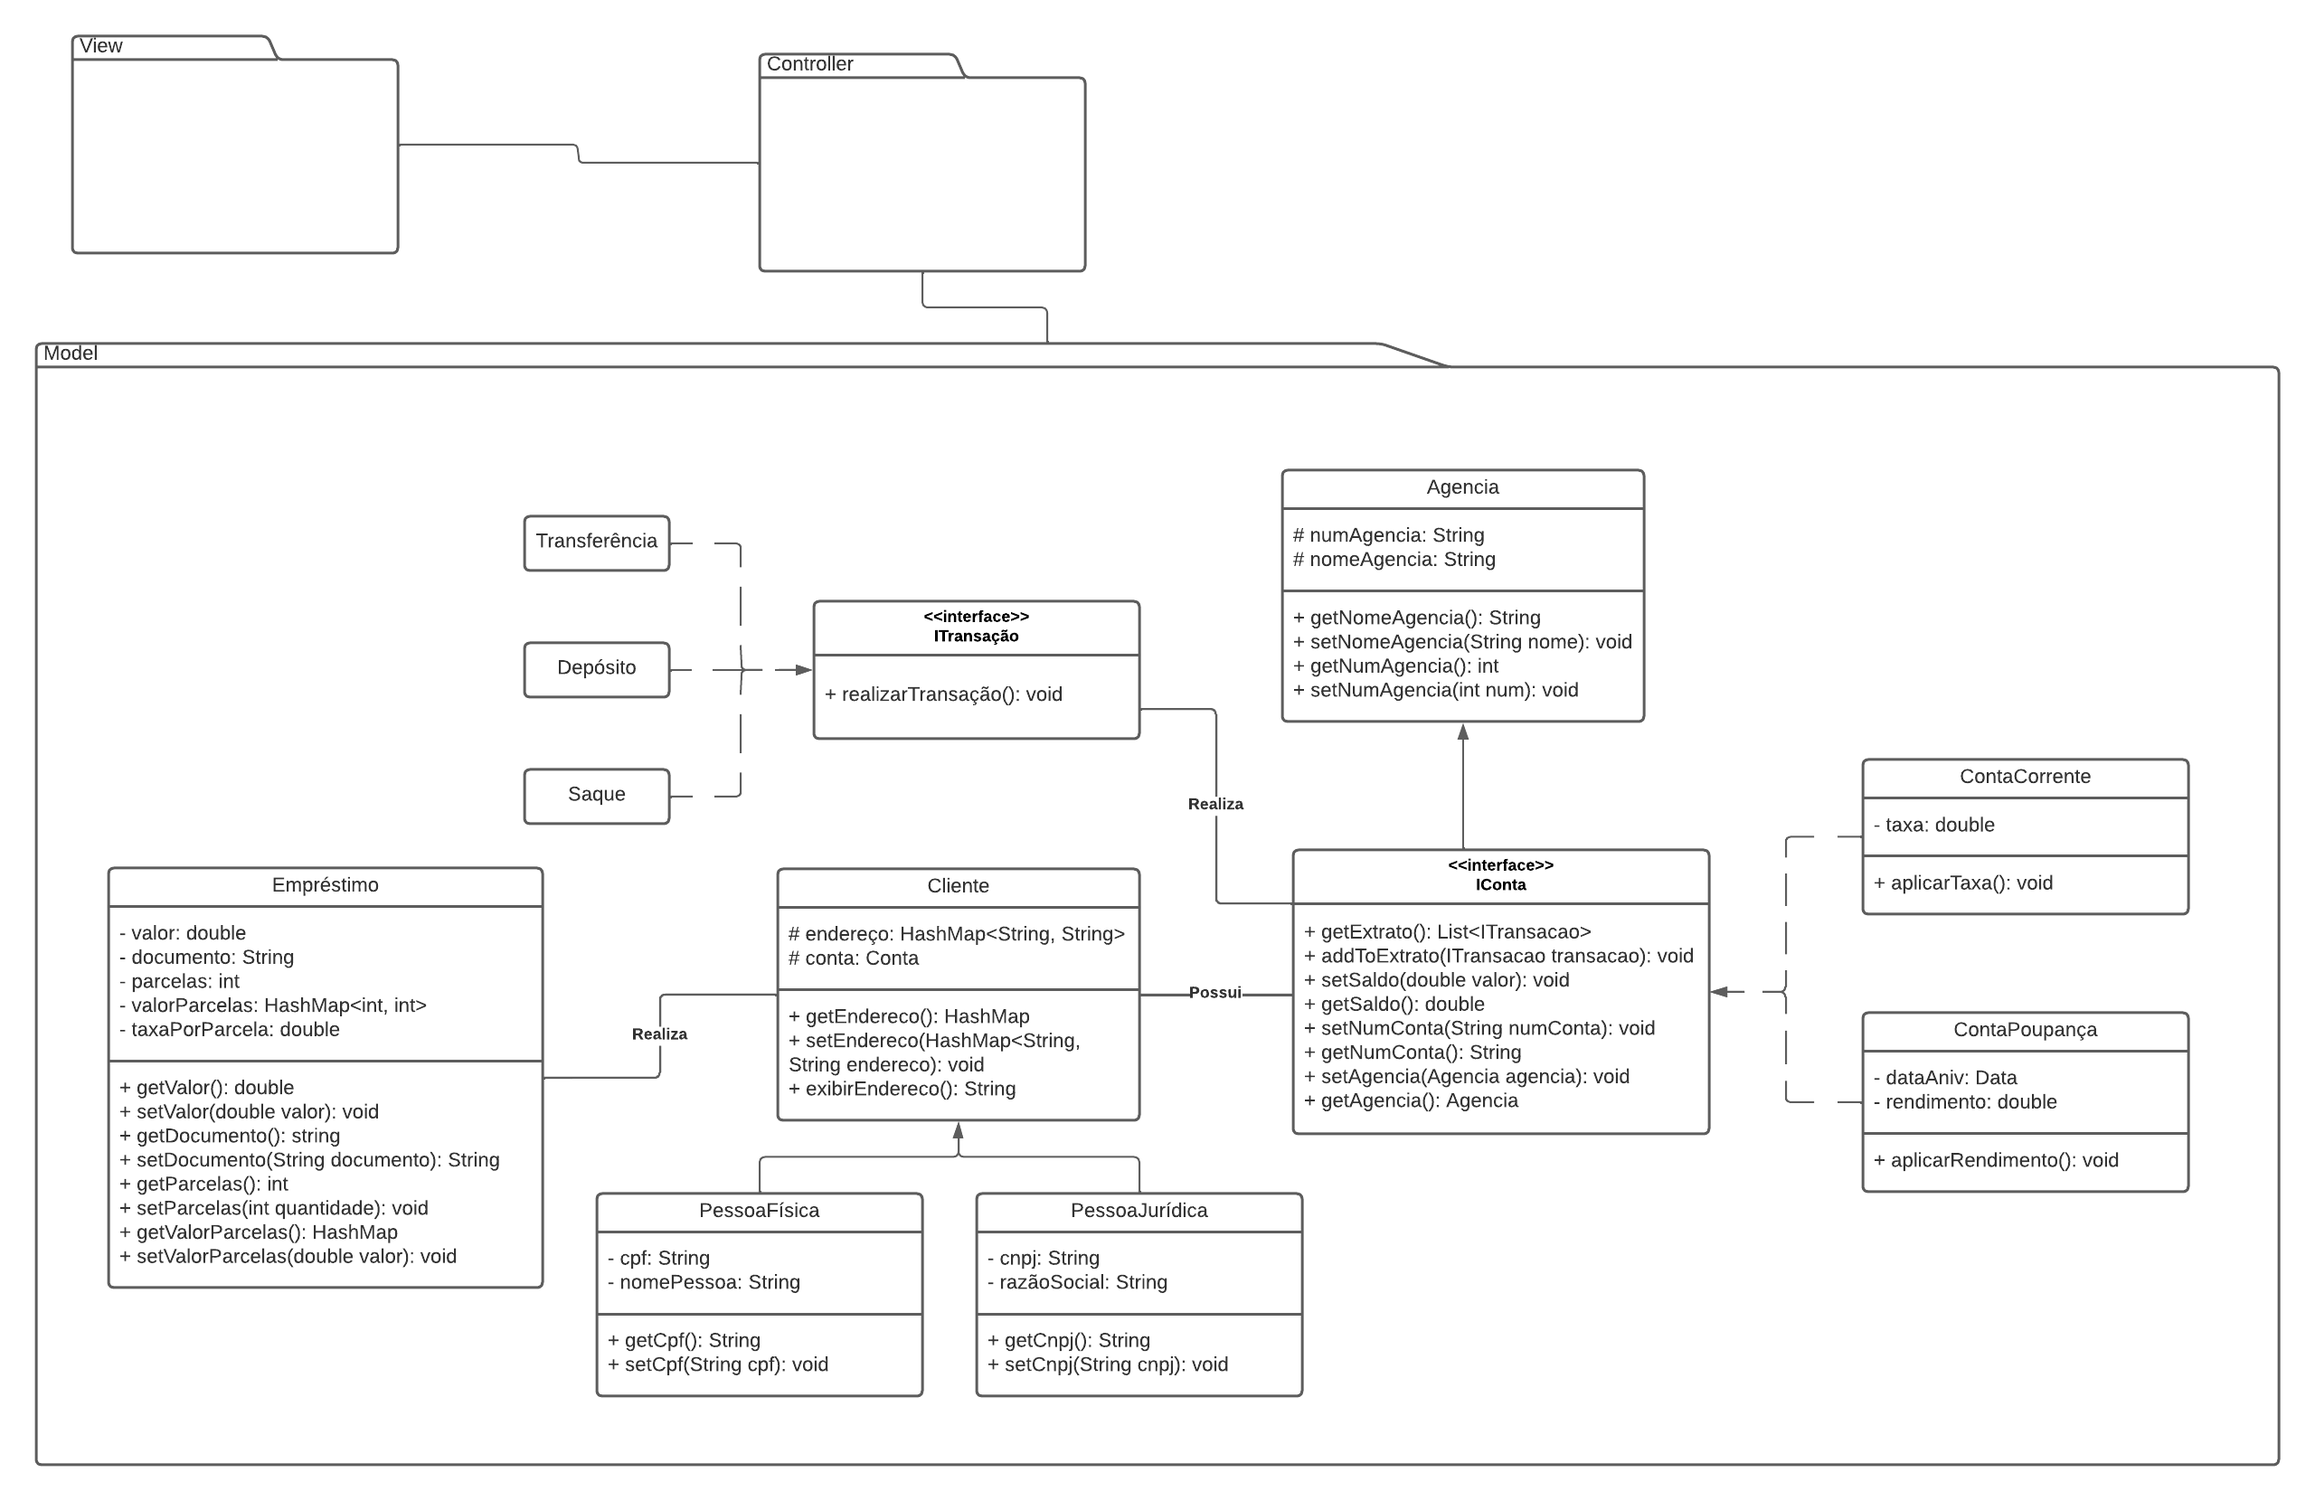
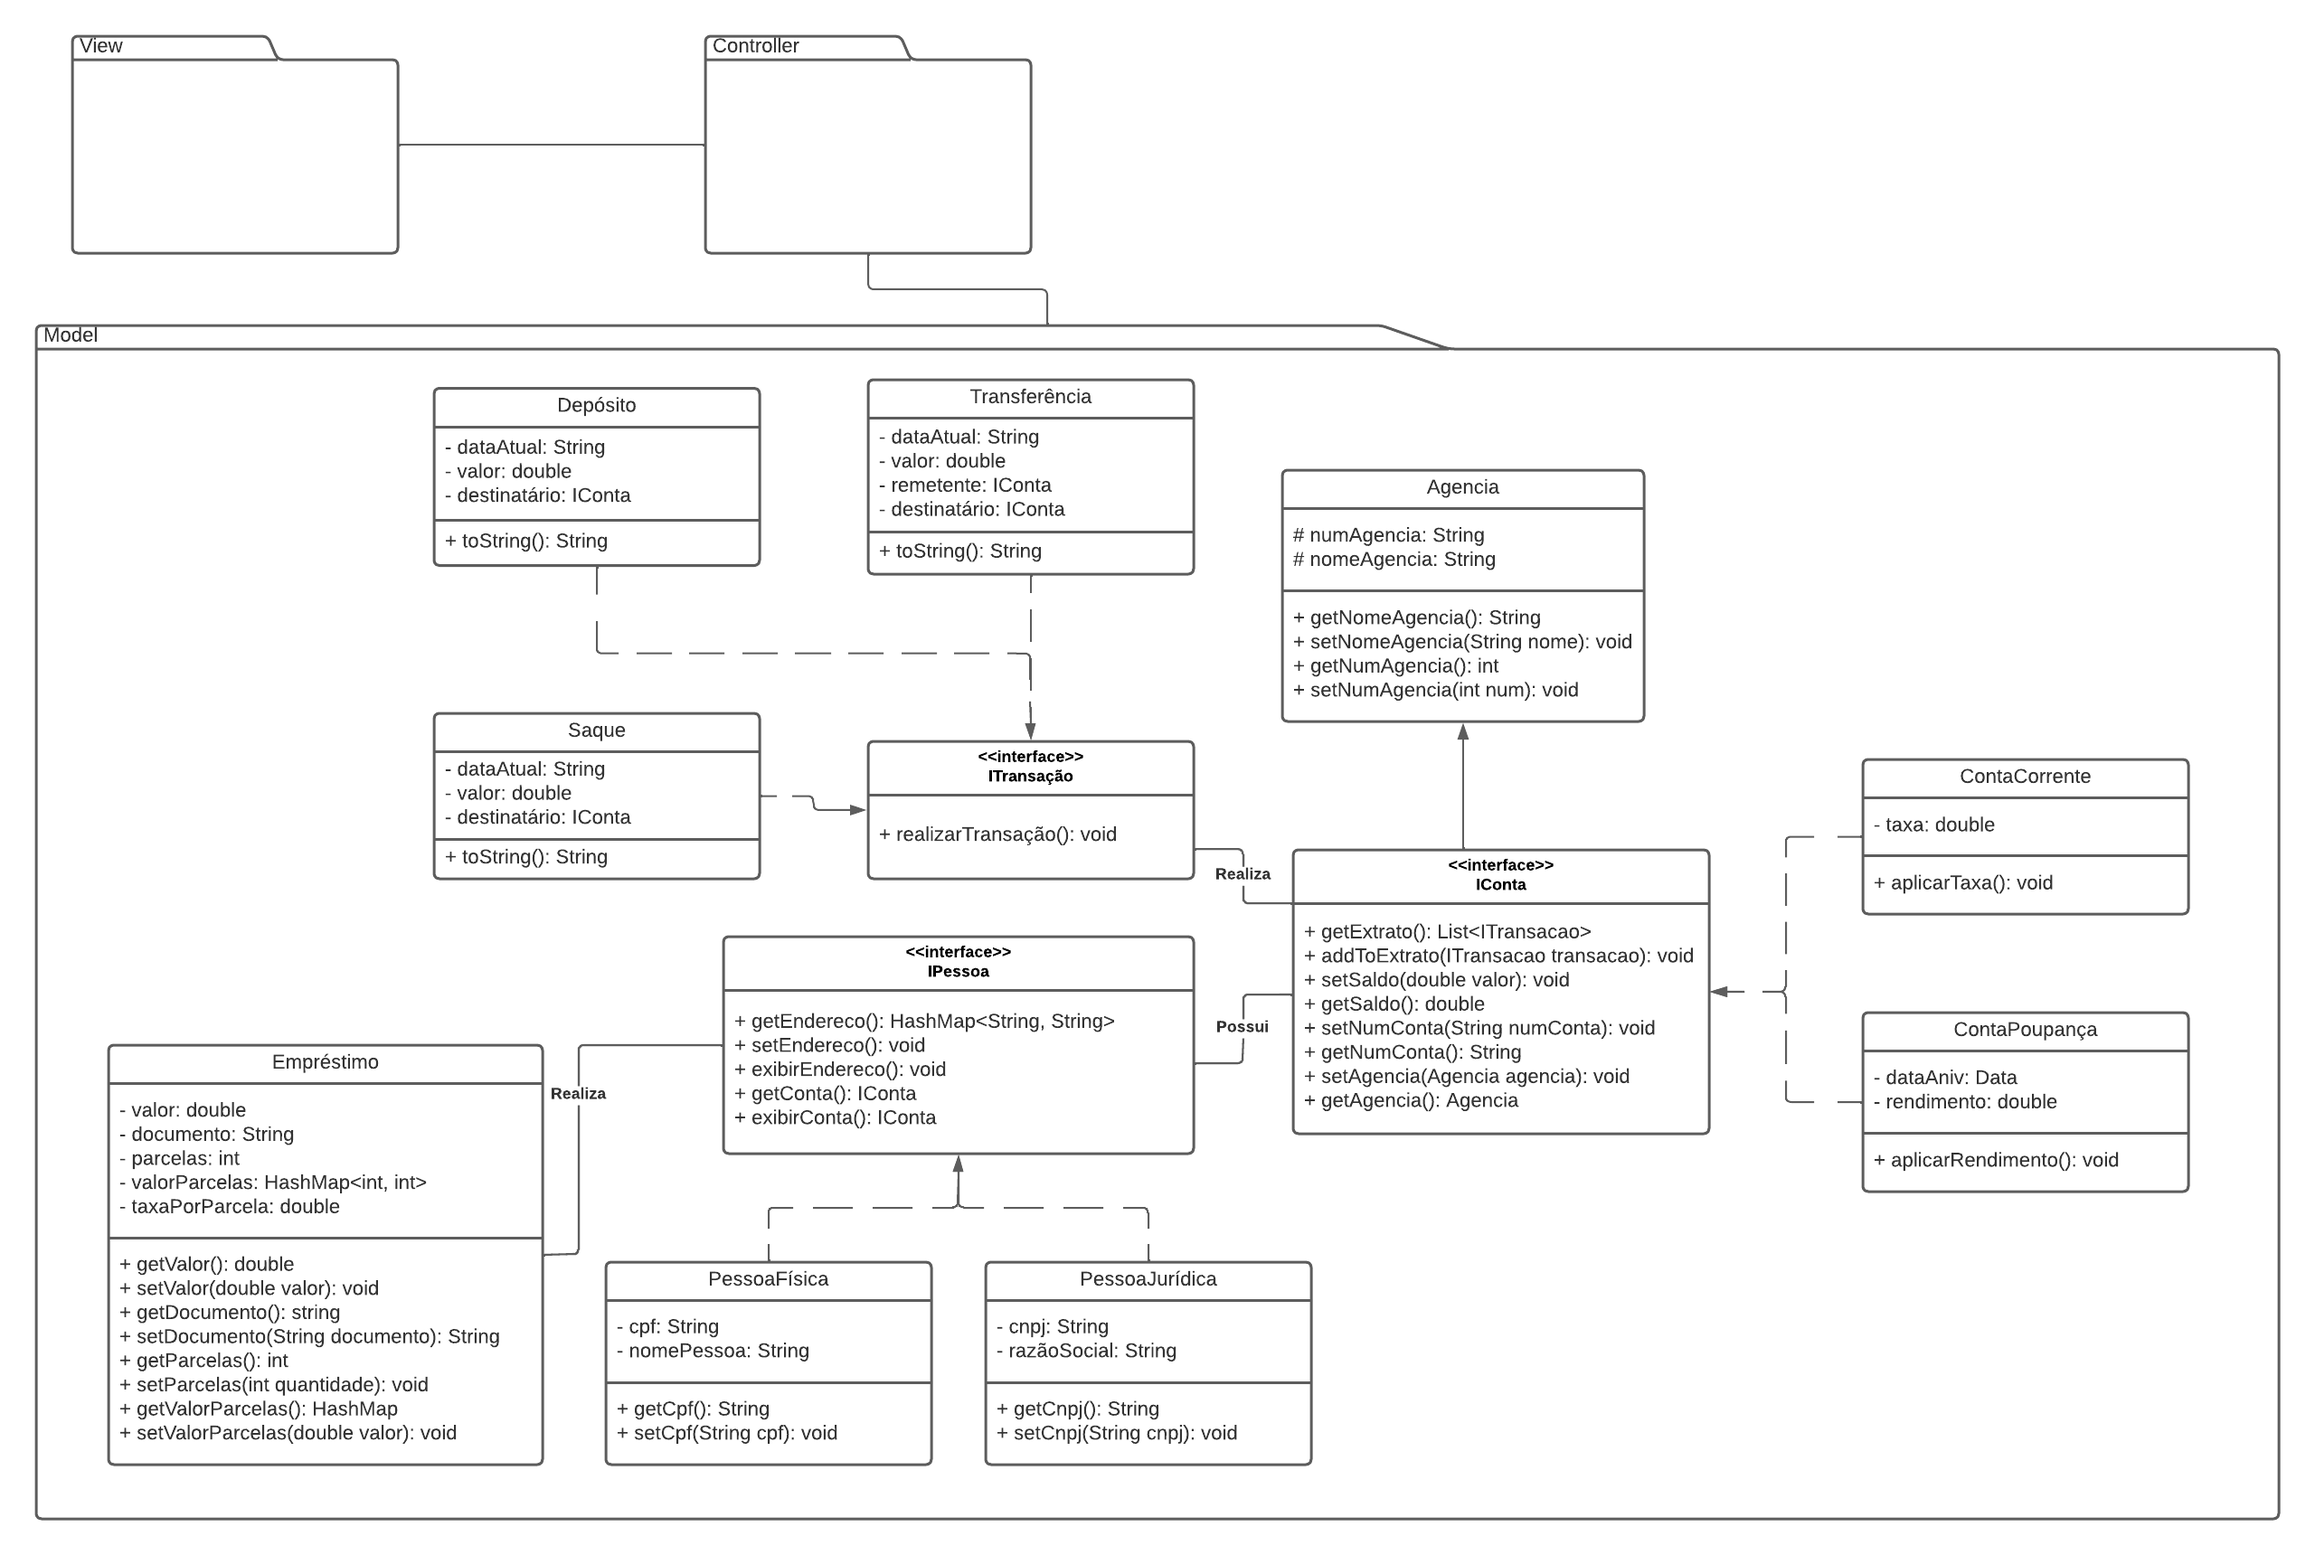
Correção do diagrama e adição dos códigos

diff --git a/Engenharia I/README.md b/Engenharia I/README.md
@@ -2,49 +2,49 @@
 >
 > *Titus Winters, Software Engineering at Google*
 
-São diferenças cruciais que diferenciam o papel essencial de cada papel. Embora o desenvolvedor seja focado mais na parte do desenvolvimento e toda a criação do projeto em si, o engenheiro de software, além de fazer o mesmo que o desenvolvedor, acaba tendo mais tarefas além do próprio processo de criação, tais como manutenção, melhorias, e qualquer outra decisão que esteja além do código ou que envolva o projeto. Ou seja, a principal diferença entre o desenvolvedor e o engenheiro de software, é que o desenvolvedor pensa no tempo atual do projeto, e o engenheiro de software pensa além disso tudo, no tempo, na escala e nos trade-offs.
+São diferenças cruciais que diferenciam o papel essencial de cada papel. Embora o desenvolvedor seja focado mais na parte do desenvolvimento e toda a criação do projeto em si, o engenheiro de ‘software’, além de fazer o mesmo que o desenvolvedor, acaba tendo mais tarefas além do próprio processo de criação, tais como manutenção, melhorias, e qualquer outra decisão que esteja além do código e projeto. Ou seja, a principal diferença entre o desenvolvedor e o engenheiro de ‘software’, é que o desenvolvedor pensa no tempo atual do projeto, e o engenheiro de ‘software’ pensa, além disso, no tempo, na escala e nos trade-offs.
 
 > O que é um trade-off no projeto da API do segundo semestre?
 
-Pelo fato do projeto ser um desktop, acaba perdendo a vantagem de ser multiplataforma, ou seja, além de desktop, também ser web e mobile. Mas em troca disso, a aplicação desktop permite maior flexibilidade de uso e gerenciamento do que um web/mobile forneceria por suas limitações, fazedo com que o usuário tenha mais opções e flexibilidade de uso em troca de portabilidade.
+Pelo fato do projeto ser um ‘desktop’, acaba perdendo a vantagem de ser multiplataforma, ou seja, além de ‘desktop’, também ser ‘web’ e mobile. Mas em troca disso, a aplicação ‘desktop’ permite maior flexibilidade de uso e gerenciamento do que uma ‘web’/mobile forneceria por suas limitações, fazendo com que o usuário tenha mais opções e flexibilidade de uso em troca de portabilidade.
 
 <br>
 
 <h1 align="center">Projeto em atividade</h1>
 <p align="justify">
-    Desenvolvimento de um estudo baseado na criação de um projeto. O desenvolvimento trabalha no aspecto geral de tudo que é necessário para a boa qualidade de um projeto. Requisitos funcionais e não funcionais, caso de uso, diagrama de classes, etc; são alguns dos conceitos utilizados.
+    Desenvolvimento de um estudo baseado na criação de um projeto. O desenvolvimento trabalha no aspecto geral de tudo necessário para a boa qualidade de um projeto. Requisitos funcionais e não funcionais, caso de uso, diagrama de classes, etc.; são alguns dos conceitos utilizados.
 </p>
 
-> O tema escolhido foi: **Sistema Bancário**.
+> O tema escolhido foi: **sistema bancário**.
 
 <br>
 
 ## Atividade de Requisitos
 
 ### :sparkles: Requisitos Funcionais
-Os requisitos funcionais representam tudo aquilo que o sistema faz, em termos de tarefas e ações. 
+Os requisitos funcionais representam tudo aquilo que o sistema faz, em tarefas e ações. 
 <p align="center">
 
 ![Caso de uso [Sistema Bancário]](/readme/Caso%20de%20uso%20%5BSistema%20Banc%C3%A1rio%5D%20-%20P%C3%A1gina%201.jpeg)
 </p>
 
 ### :dart: Requisitos não funcionais
-Os requisitos não funcionais representam a forma como as funcionalidades serão entregues ao usuário. Tratam de quesões como desempenho[^1], usabilidade[^2], portabilidade[^3], etc.
+Os requisitos não funcionais representam como as funcionalidades serão entregues ao usuário. Tratam de questões como desempenho, usabilidade, portabilidade, etc.
 
-| Requisito não-funcional | Descrição |
-|:-----------------------:|:---------:|
-| Usabilidade | - |
-| Portabilidade | - |
-| Escalabilidade[^4] | - |
-| Separação de Interesses: modelo MVC[^5] | - |
-| Desempenho | - |
+| Requisito não-funcional             |
+|:------------------------------------|
+| Usabilidade                         |
+| Portabilidade                       |
+| Escalabilidade                      |
+| Separação de Interesses: modelo MVC |
+| Desempenho                          |
 
 ## Arquitetura do Sistema
 
 ### Diagrama de classes UML
 <p align="center">
 
-![Diagrama de classes [Sistema Bancário]](/readme/Diagrama%20de%20classes%20UML%20%5BSistema%20Banc%C3%A1rio%5D%20-%20P%C3%A1gina%201.png)
+![Diagrama de classes [Sistema Bancário]](/readme/Diagrama%20de%20classes%20UML%20%5BSistema%20Banc%C3%A1rio%5D.png)
 </p>
 
 ## Desenvolvimento do código
@@ -214,6 +214,32 @@ class ContaCorrente implements IConta {
 }
 ```
 
+`classe Agencia`
+```java
+class Agencia {
+    protected String numAgencia;
+    protected String nomeAgencia;
+
+    public Agencia (String numAgencia, String nomeAgencia) {
+        this.numAgencia = numAgencia;
+        this.nomeAgencia = nomeAgencia;
+    }
+
+    public String getNumAgencia() {
+        return numAgencia;
+    }
+    public String getNomeAgencia() {
+        return nomeAgencia;
+    }
+    public void setNumAgencia(String numAgencia) {
+        this.numAgencia = numAgencia;
+    }
+    public void setNomeAgencia(String nomeAgencia) {
+        this.nomeAgencia = nomeAgencia;
+    }
+}
+```
+
 `interface ITransacao`
 ```java
 interface ITransacao {
@@ -294,8 +320,204 @@ public class Transferencia implements ITransacao {
 }
 ```
 
-[^1]: Desempenho:: Lorem ipsum dolor sit amet, consectetur adipiscing elit.
-[^2]: Usabilidade: Praesent viverra augue nec iaculis condimentum.
-[^3]: Portabilidade: liquam erat volutpat. Etiam ac euismod enim.
-[^4]: Escalabilidade: Proin mattis mi eu orci gravida, et ullamcorper nisi finibus. In semper lectus est, non sagittis eros aliquet vel.
-[^5]: MVC: Integer purus libero, convallis id bibendum ac, venenatis id nibh.
+`classe Saque`
+```java
+public class Saque implements ITransacao {
+    String dataAtual;
+    double valor;
+    IConta destinatario;
+
+    public Saque(IConta destinatario, double valor, String dataAtual) {
+        this.destinatario = destinatario;
+        this.valor = valor;
+        this.dataAtual = dataAtual;
+    }
+
+    @Override
+    public void realizarTransacao() {
+        destinatario.setSaldo(destinatario.getSaldo() - valor);
+        destinatario.addToExtrato(new Saque(this.destinatario, this.valor, this.dataAtual));
+    }
+
+    @Override
+    public String toString() {
+        String texto = """
+                Destinatário: %s
+                Valor do saque: %s
+                Data da realização do saque: %s
+                """;
+        return String.format(texto, this.destinatario.getNumConta(), this.valor, this.dataAtual);
+    }
+}
+```
+
+`interface IPessoa`
+```java
+import java.util.HashMap;
+
+public interface IPessoa {
+    HashMap<String, String> getEndereco();
+    void setEndereco(HashMap<String, String> endereco);
+    void exibirEndereco();
+    IConta getConta();
+    void exibirConta();
+}
+```
+
+`classe PessoaFisica`
+```java
+import java.util.HashMap;
+
+class PessoaFisica implements IPessoa {
+    private String cpf;
+    private String nomePessoa;
+    private HashMap<String, String> endereco;
+    private IConta conta;
+
+    public PessoaFisica(String cpf, String nomePessoa, HashMap<String, String> endereco, IConta conta) {
+        this.cpf = cpf;
+        this.nomePessoa = nomePessoa;
+        this.conta = conta;
+        this.endereco = endereco;
+    }
+
+    @Override
+    public HashMap<String, String> getEndereco() {
+        return this.endereco;
+    }
+
+    @Override
+    public void setEndereco(HashMap<String, String> endereco) {
+        this.endereco = endereco;
+    }
+
+    @Override
+    public void exibirEndereco() {
+        for (String nome : endereco.keySet()) {
+            String key = nome.toString();
+            String value = endereco.get(nome).toString();
+            System.out.println(key + ": " + value);
+        }
+    }
+
+    @Override
+    public IConta getConta() {
+        return this.conta;
+    }
+
+    @Override
+    public void exibirConta() {
+        String conta = """
+                #========== Dados da conta ==========#
+                Proprietário da conta: %s
+                Agência: %s | %s
+                Conta: %s
+                Saldo: %s
+                #====================================#
+                """;
+        System.out.printf(
+                conta,
+                this.getNomePessoa(),
+                this.conta.getAgencia().getNomeAgencia(),
+                this.conta.getAgencia().getNumAgencia(),
+                this.conta.getNumConta(),
+                this.conta.getSaldo()
+        );
+    }
+
+    public String getCpf() {
+        return cpf;
+    }
+
+    public void setCpf(String cpf) {
+        this.cpf = cpf;
+    }
+
+    public String getNomePessoa() {
+        return nomePessoa;
+    }
+
+    public void setNomePessoa(String nomePessoa) {
+        this.nomePessoa = nomePessoa;
+    }
+}
+```
+
+`classe PessoaJuridica`
+```java
+import java.util.HashMap;
+
+class PessoaJuridica implements IPessoa {
+    private String cnpj;
+    private String razaoSocial;
+    private HashMap<String, String> endereco;
+    private IConta conta;
+
+    public PessoaJuridica(String cnpj, String razaoSocial, HashMap<String, String> endereco, IConta conta) {
+        this.cnpj = cnpj;
+        this.razaoSocial = razaoSocial;
+        this.endereco = endereco;
+        this.conta = conta;
+    }
+
+    @Override
+    public HashMap<String, String> getEndereco() {
+        return this.endereco;
+    }
+
+    @Override
+    public void setEndereco(HashMap<String, String> endereco) {
+        this.endereco = endereco;
+    }
+
+    @Override
+    public void exibirEndereco() {
+        for (String nome : endereco.keySet()) {
+            String key = nome.toString();
+            String value = endereco.get(nome).toString();
+            System.out.println(key + ": " + value);
+        }
+    }
+
+    @Override
+    public IConta getConta() {
+        return this.conta;
+    }
+
+    @Override
+    public void exibirConta() {
+        String conta = """
+                #========== Dados da conta ==========#
+                Proprietário da conta: %s
+                Agência: %s | %s
+                Conta: %s
+                Saldo: %s
+                #====================================#
+                """;
+        System.out.printf(
+                conta,
+                this.getRazaoSocial(),
+                this.conta.getAgencia().getNomeAgencia(),
+                this.conta.getAgencia().getNumAgencia(),
+                this.conta.getNumConta(),
+                this.conta.getSaldo()
+        );
+    }
+
+    public String getCnpj() {
+        return this.cnpj;
+    }
+
+    public void setCnpj(String cnpj) {
+        this.cnpj = cnpj;
+    }
+
+    public String getRazaoSocial() {
+        return this.razaoSocial;
+    }
+
+    public void setRazaoSocial(String razaoSocial) {
+        this.razaoSocial = razaoSocial;
+    }
+}
+```
